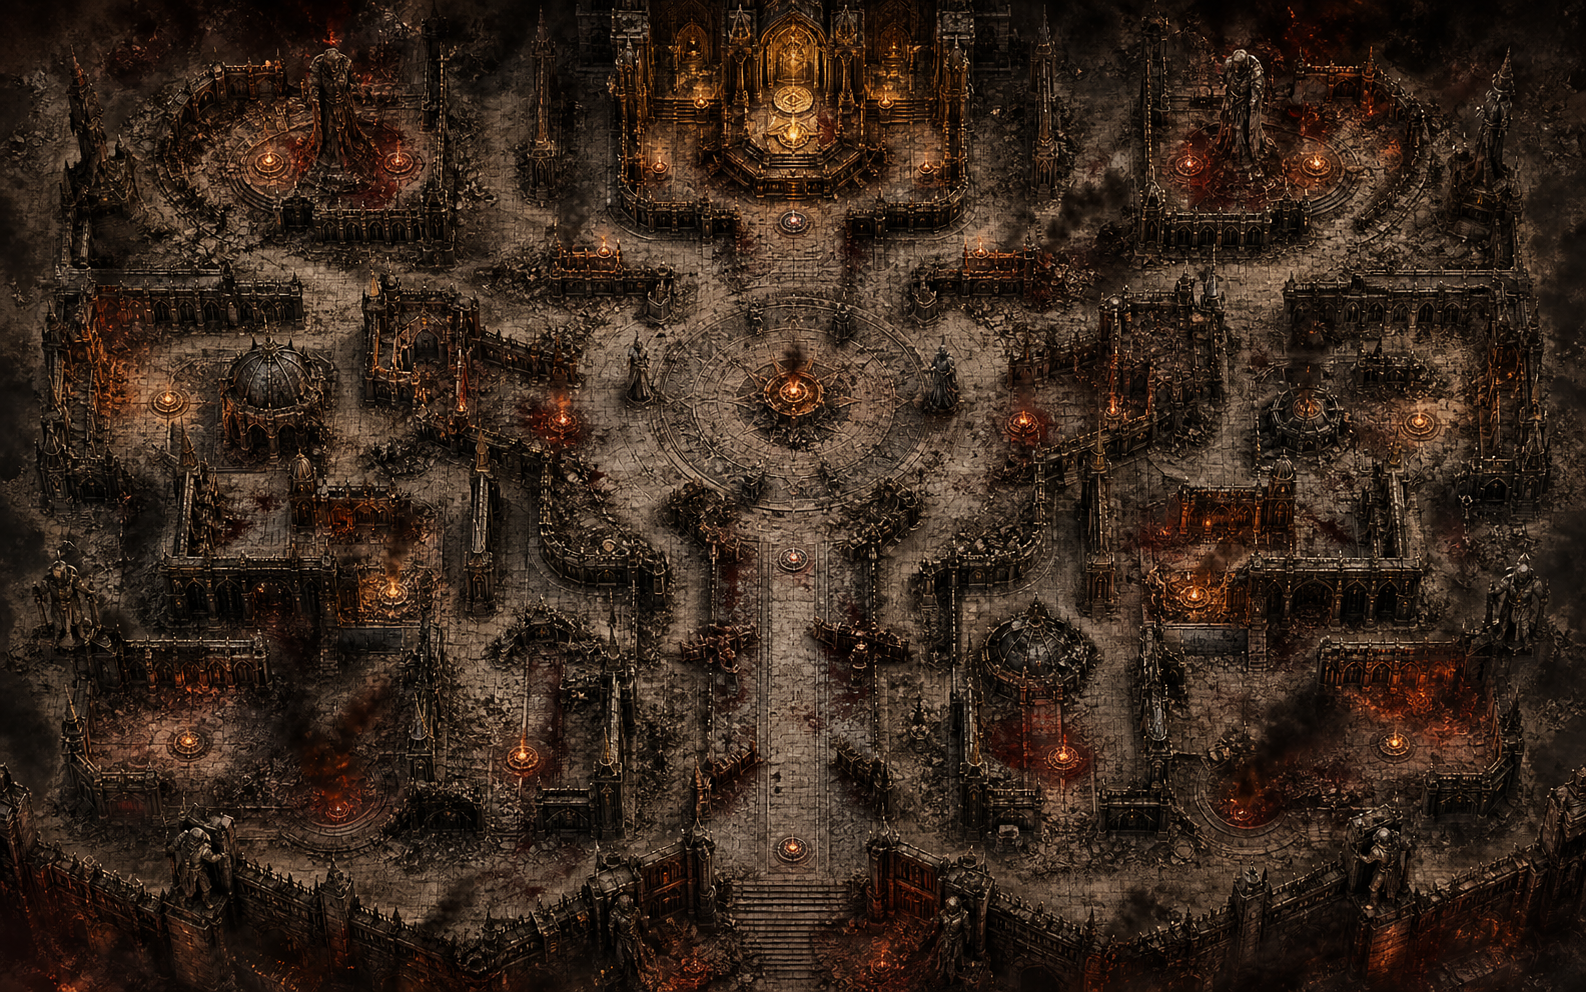
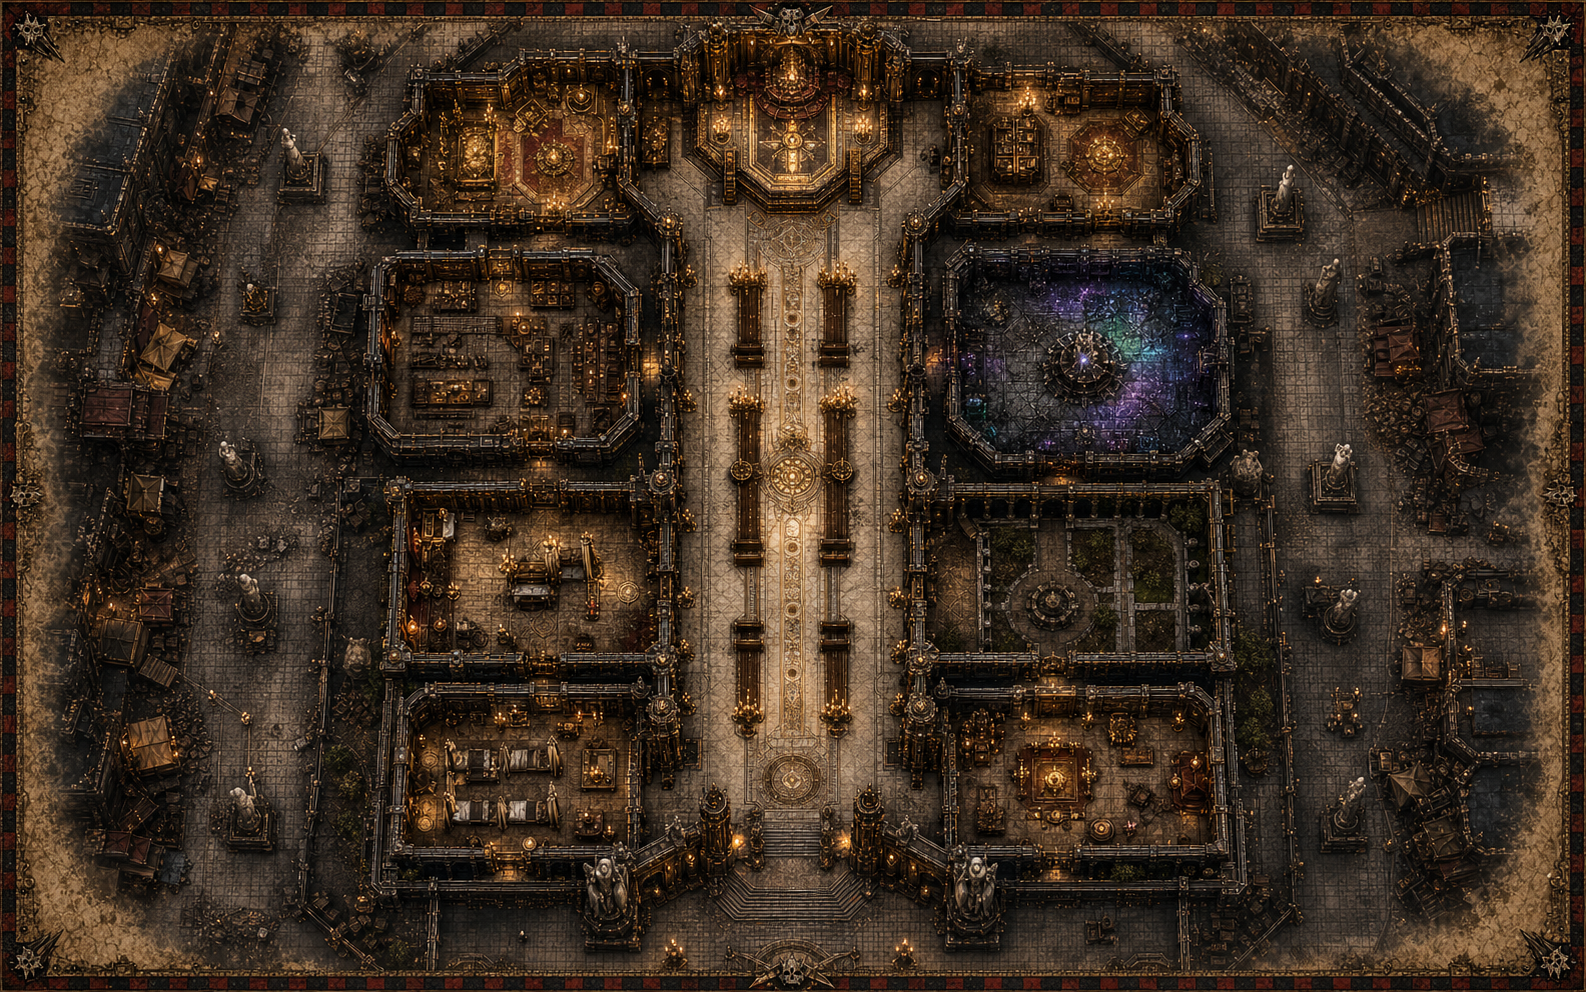
Ch.5 Shepherd of Lies: new scene + cathedral map art

diff --git a/index.html b/index.html
@@ -637,7 +637,7 @@
     <blockquote>The Sisters bring their saint home to Hallowmere to be enshrined — and find the cathedral that summoned them rotten from the mitre down. Before they hand Auria to anyone, they must prove the Prioress is a heretic, then cleanse the lie in fire.</blockquote>
   </div>
   <figure class="art-slot art-slot--scene"><div class="art-frame"><img src="assets/ch05-scene.png" alt="Inside the gilded Cathedral of the Ember, the heretic Prioress Vael welcomes three Sisters of Battle with false warmth as a subtle Tzeentch corruption bleeds through the gold." loading="lazy"></div><figcaption>Chapter V scene illustration</figcaption></figure>
-  <figure class="art-slot art-slot--map art-slot--labelled-map"><div class="art-frame"><img src="assets/ch05-map.png" alt="Top-down battle map of the Cathedral of the Ember complex: a central nave with sanctum, archive, undercroft altar, cloister, hospice, and entry doors, ringed by the plaza and streets." loading="lazy"><div class="map-labels" aria-hidden="true"><span style="left:24%;top:18%">Sanctum</span><span style="left:74%;top:18%">Archive</span><span style="left:20%;top:48%">Undercroft — Altar</span><span style="left:50%;top:48%">Nave</span><span style="left:80%;top:50%">Cloister</span><span style="left:74%;top:78%">Hospice</span><span style="left:44%;top:86%">Doors</span><span style="left:50%;top:96%">Plaza &amp; Streets</span></div></div><figcaption>Chapter V tabletop battle map — the Cathedral of the Ember</figcaption></figure>
+  <figure class="art-slot art-slot--map art-slot--labelled-map"><div class="art-frame"><img src="assets/ch05-map.png" alt="Top-down battle map of the Cathedral of the Ember complex: a central nave with sanctum, archive, undercroft altar, cloister, hospice, and entry doors, ringed by the plaza and streets." loading="lazy"><div class="map-labels" aria-hidden="true"><span style="left:50%;top:12%">Sanctum</span><span style="left:31%;top:35%">Archive</span><span style="left:69%;top:35%">Undercroft — Altar</span><span style="left:50%;top:50%">Nave</span><span style="left:70%;top:61%">Cloister</span><span style="left:31%;top:80%">Hospice</span><span style="left:50%;top:91%">Doors</span><span style="left:10%;top:50%">Plaza &amp; Streets</span></div></div><figcaption>Chapter V tabletop battle map — the Cathedral of the Ember</figcaption></figure>
   <article class="markdown-body chapter-body">
     <h3 id="the-crossing-fly-the-leg-to-hallowmere">The Crossing — fly the leg to Hallowmere</h3>
 <p>Before this mission, fly the leg to <strong>Hallowmere</strong> on the Astromap — the Kroozer hub out along the Hallowmere arm, one jump at a time. In short:</p>